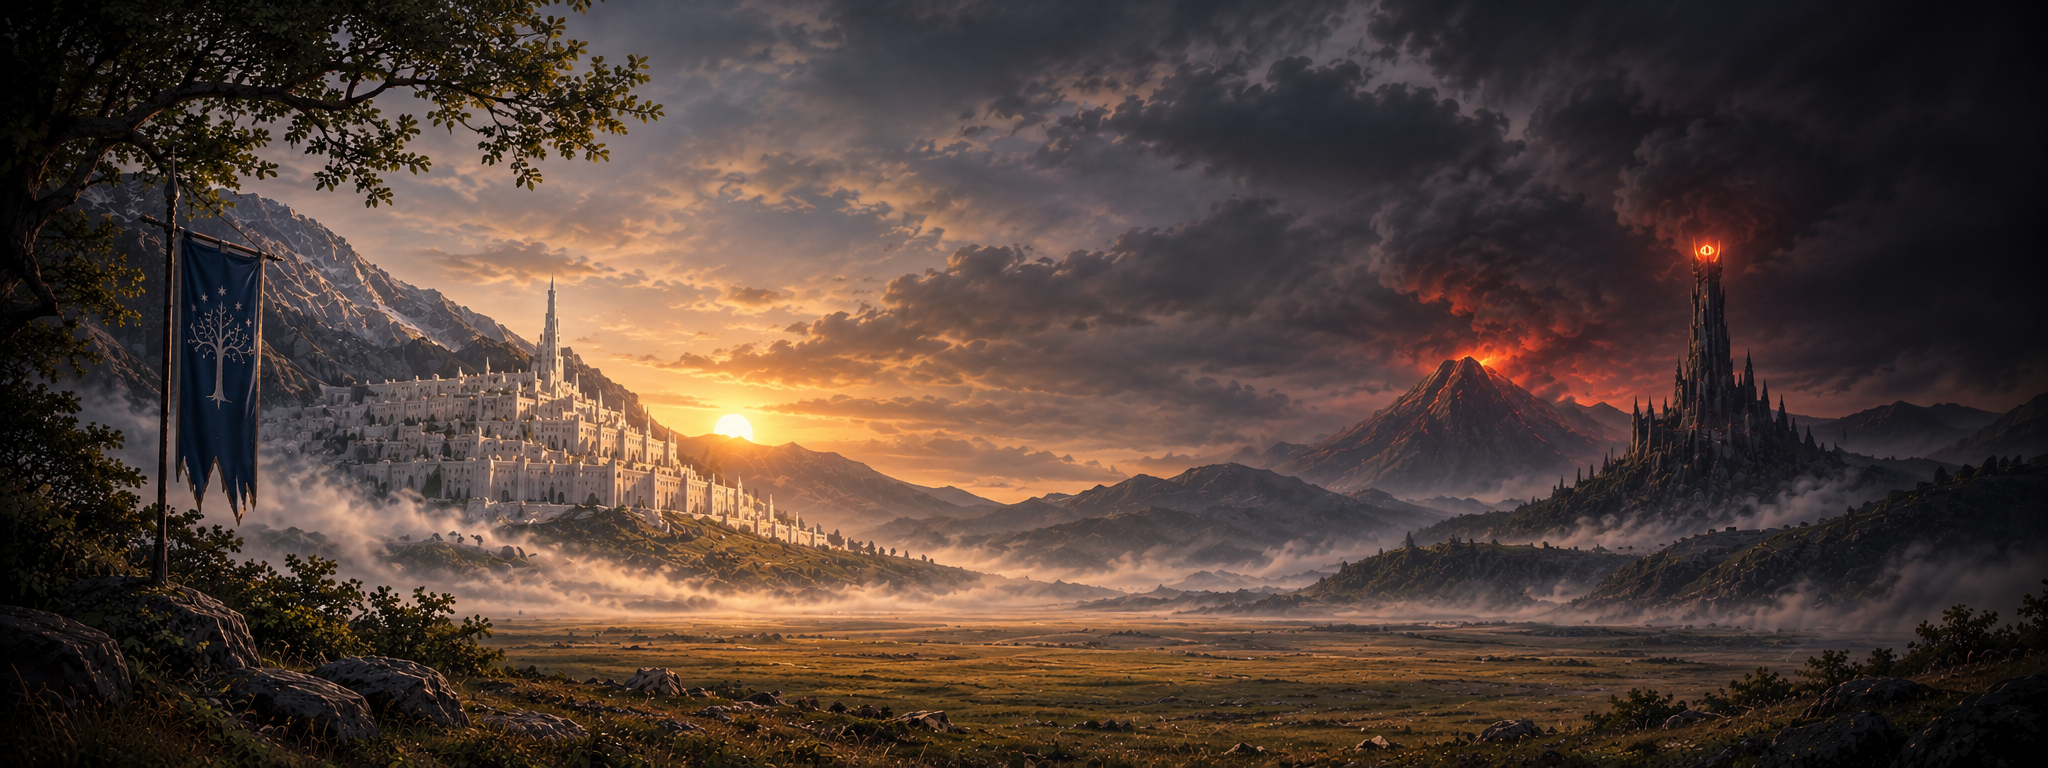
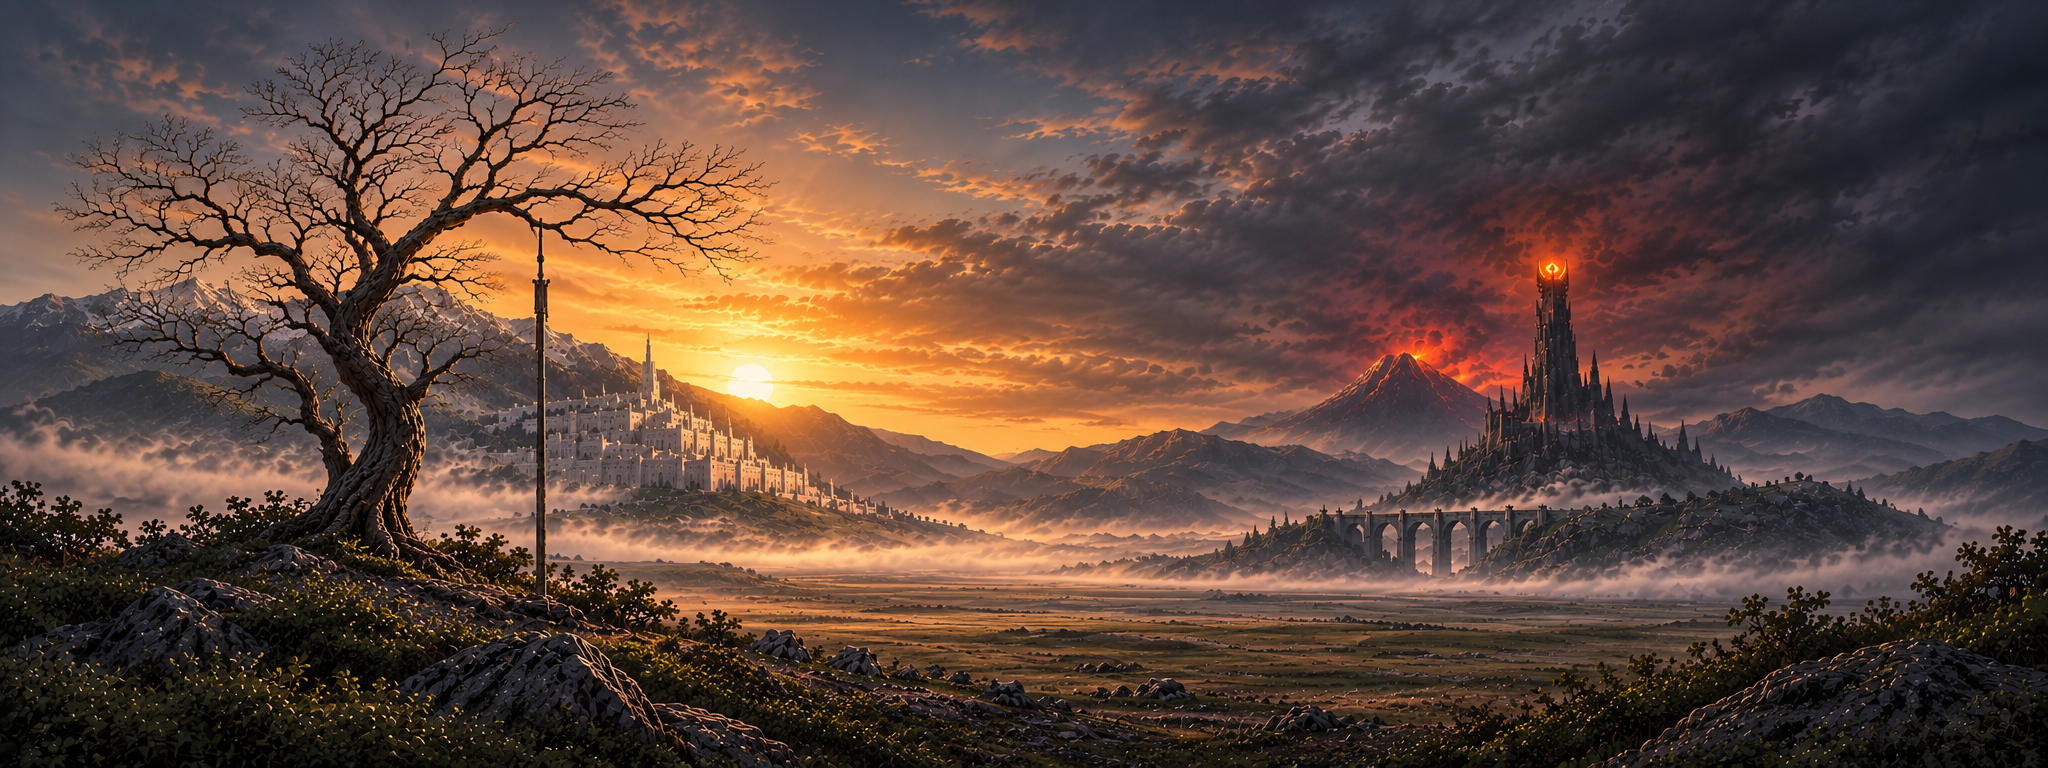
Update design homepage

diff --git a/src/views/Welcome/styles.ts b/src/views/Welcome/styles.ts
@@ -12,6 +12,43 @@ export const Root = styled.div`
     background-position: center;
     background-repeat: no-repeat;
     color: #e8e6e1;
+
+    &::before {
+        content: '';
+        position: absolute;
+        inset-block-start: 50%;
+        inset-inline-start: 50%;
+        transform: translate(-50%, -50%);
+        height: 100vh;
+         aspect-ratio: 2508 / 941;
+         position: absolute;
+         pointer-events: none;
+
+    background:
+        /* Fondu latéral gauche et droit */
+        linear-gradient(
+            to right,
+            #000 0%,
+            rgba(0, 0, 0, 0.90) 7%,
+            rgba(0, 0, 0, 0.75) 13%,
+            rgba(0, 0, 0, 0.55) 16.67%,
+            transparent 21%,
+            transparent 79%,
+            rgba(0, 0, 0, 0.55) 83.33%,
+            rgba(0, 0, 0, 0.75) 87%,
+            rgba(0, 0, 0, 0.90) 93%,
+            #000 100%
+        ),
+
+        /* Léger assombrissement vertical */
+        linear-gradient(
+            to bottom,
+            rgba(0, 0, 0, 0.50) 0%,
+            transparent 12%,
+            transparent 88%,
+            rgba(0, 0, 0, 0.50) 100%
+        );
+    }
 `;
 
 export const Menu = styled.nav`
@@ -25,7 +62,7 @@ export const Menu = styled.nav`
 export const MenuButton = styled.button`
     appearance: none;
     border: 1px solid rgba(232, 230, 225, 0.28);
-    background: rgba(255, 255, 255, 0.04);
+    background: rgba(0, 0, 0, 0.5);
     color: inherit;
     font: inherit;
     font-size: 1.05rem;
@@ -39,7 +76,7 @@ export const MenuButton = styled.button`
 
     &:hover:not(:disabled),
     &:focus-visible:not(:disabled) {
-        background: rgba(255, 255, 255, 0.1);
+        background: rgba(0, 0, 0, 0.3);
         border-color: rgba(232, 230, 225, 0.55);
         outline: none;
     }

diff --git a/src/App.tsx b/src/App.tsx
@@ -204,7 +204,7 @@ const ScreenViewport = styled.div`
     align-items: center;
     justify-content: center;
     overflow: hidden;
-    background-color: #0d0e12;
+    background-color: black;
 `;
 
 const ScaledView = styled.div<{ $scale: number }>`
